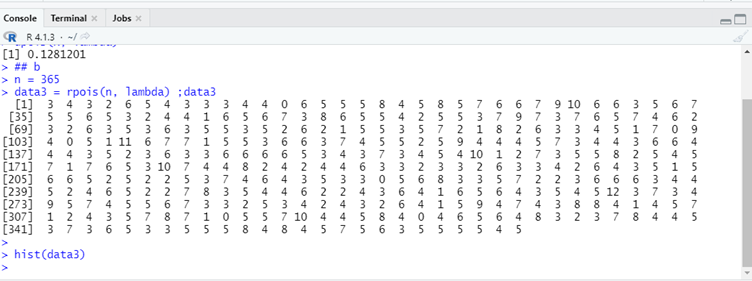
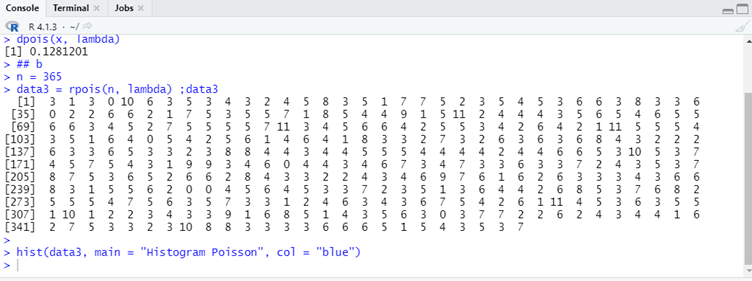
fix: mean and varians for soal3

Changed region(s): [[0.0, 0.0, 1.0, 0.9964], [0.9787, 0.3132, 1.0, 0.968]]

diff --git a/README.md b/README.md
@@ -128,7 +128,7 @@ hist(data2, main = "Histogram Binomial", col = "green")
 **Penjelasan** : Menggunakan fungsi `rbinom()` untuk mencari distribusi binomial dengan n data random (karena tidak disebutkan disoal, maka mengambil nilai sembarang `n = 100`) dan fungsi `hist()` untuk membuat histogram distribusi binomial dari `data2`.
 
 ### 2.c
-Nilai Rataan (μ) dan Varian (σ²) dari DistribusiBinomial.
+Nilai Rataan (μ) dan Varian (σ²) dari Distribusi Binomial.
 
 ``` r
 ## c
@@ -176,7 +176,7 @@ setahun (n = 365)
 n = 365
 data3 = rpois(n, lambda) ;data3
 
-hist(data3)
+hist(data3, main = "Histogram Poisson", col = "blue")
 ```
 
 ![3.b](screenshot/3.b.png)
@@ -195,11 +195,12 @@ Jika kita cari nilai rata-rata untuk distribusi poisson pada poin b dengan mengg
 ``` r
 ## c
 mean(data3 == 6)
+## Penjelasan ada di Github
 ```
 
 ![3.c](screenshot/3.c.png)
 
-Maka nilai yang diperoleh adalah 0.1342466.
+Maka nilai yang diperoleh adalah 0.1424658.
 
 Dapat diambil kesuimpulan bahwa berdasarkan perhitungan ataupun nilai bangkitan, fungsi probabilitasnya memiliki rentang nilai yang tidak berbeda, dimana hasil pada poin a adalah 0.1281201.
 
@@ -209,17 +210,18 @@ Nilai Rataan (μ) dan Varian (σ²) dari Distribusi Poisson.
 
 ``` r
 ## d
-mean(data3)
-var(data3)
+mean = lambda ;mean
+
+var = lambda ;var
 ```
 
 ![3.d](screenshot/3.d.png)
 
 **Hasil** :
-- Rataan (μ)  = 4.575342
-- Varian (σ²) = 4.201039
+- Rataan (μ)  = 4.5
+- Varian (σ²) = 4.5
 
-***Penjelasan** : Menggunakan fungsi `mean()` dan `var()` untuk mencari nilai rataan dan varian dari `data3`.
+***Penjelasan** : Nilai rataan dan varian pada distribusi poisson sama dengan nilal `lambda`.
 
 ## Soal 4
 Diketahui nilai x = 2 dan v = 10. Tentukan:
